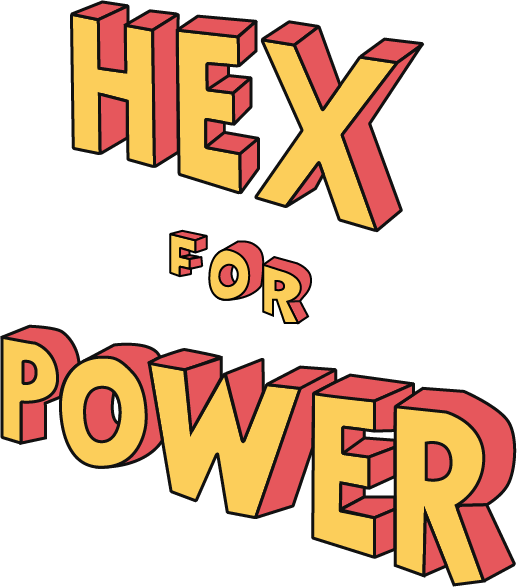
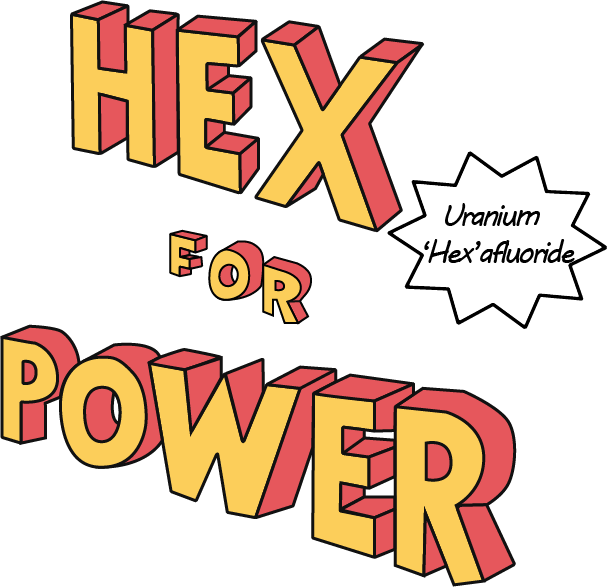
Bunch of changes, added hover areas

diff --git a/docs/styles.css b/docs/styles.css
@@ -1,61 +1,122 @@
-.container {
-  position: relative;
+* {
+  box-sizing: border-box;
 }
-#divSectionTop {
-  width: 1994px;
-  height: 997px;
-  overflow: hidden;
-}
-#divTopBanner {
-  position: absolute;
-  top: 49%;
-  left: 0px;
-  width: 96.5%;
-  height: 10%;
-  background-color: #ffdd88;
-  z-index: 3;
-}
-#divTriGroup {
-  position: absolute;
-  top: 10%;
-  left: 16%;
-  max-width: 25%;
-  height: auto;
-  z-index: 3;
+body,
+html {
+  padding: 0;
+  margin: 0;
+  overflow-x: hidden;
 }
 
-#imgBackground {
-  position: absolute;
-  top: 0px;
-  left: 0px;
-  margin-left: -18px;
-  margin-top: -18px;
-  max-width: 100%;
-  height: auto;
-  z-index: 1;
+/* General */
+.v-center {
+  position: relative;
+  top: 50%;
+  transform: translateY(-50%);
 }
-#imgSpaceAccent {
-  position: absolute;
-  top: 0px;
-  left: 0px;
-  max-width: 96.5%;
-  height: auto;
-  z-index: 2;
+
+/* flex sections (left/right) */
+.left,
+.right {
+  width: 50%;
+  padding: 10px;
+  min-width: 320px;
 }
-#imgFamily {
-  position: absolute;
-  vertical-align: bottom;
-  top: 24%;
-  left: 1%;
-  max-width: 25%;
-  height: auto;
-  z-index: 4;
+
+.left {
+  position: relative;
 }
-#imgTriGroup {
+
+/* Top Section*/
+.section#top {
+  background-image: url("./Media/background-both.png");
+  background-size: cover;
+  background-position: center;
+  background-repeat: no-repeat;
+
+  width: 100vw;
+  min-height: 90vh;
+
+  overflow: hidden;
+  display: flex;
+  flex-wrap: wrap;
+}
+
+#mainTitle {
+  width: 100%;
+  max-width: 400px;
+
+  position: relative;
+
+  margin: 0 auto;
+}
+
+#circles {
+  width: 100%;
+  max-width: 700px;
+
+  margin-left: auto;
+}
+
+.hoverArea {
+  padding: 20px;
+}
+
+.hoverArea .tooltip {
+  opacity: 0;
+
+  width: 100%;
+  height: 100%;
+
+  border-radius: 100%;
+  padding: 10px;
+
+  background: white;
+  pointer-events: none;
+
+  transition: opacity 0.5s ease;
+
+  text-align: center;
+}
+.hoverArea.show .tooltip {
+  opacity: 1;
+}
+
+#banner {
+  width: 100%;
+  height: 100px;
+
+  align-self: flex-end;
+
+  background-color: #efcc8c;
+}
+
+/* HoverAreas */
+.hoverArea {
   position: absolute;
-  top: 10%;
-  left: 16%;
-  max-width: 25%;
-  height: auto;
-  z-index: 3;
+
+  width: 30%;
+  height: 28.3%;
+
+  border-radius: 100%;
+
+  cursor: pointer;
+}
+
+.hoverArea[data-id="1"] {
+  top: 0.3%;
+  left: 31%;
+}
+.hoverArea[data-id="2"] {
+  right: 0.3%;
+  top: 10.5%;
+}
+.hoverArea[data-id="3"] {
+  left: 39.3%;
+  bottom: 35.2%;
+}
+
+/* Bottom Section */
+.section#bottom {
+  /* todo */
 }

diff --git a/docs/index.html b/docs/index.html
@@ -5,21 +5,39 @@
     <meta http-equiv="X-UA-Compatible" content="IE=edge" />
     <meta name="viewport" content="width=device-width, initial-scale=1.0" />
     <title>Fluorine</title>
+    <!-- css reset -->
+    <link
+      rel="stylesheet"
+      href="https://cdn.jsdelivr.net/gh/jgthms/minireset.css@master/minireset.min.css"
+    />
+    <!-- default css -->
     <link rel="stylesheet" href="./styles.css" />
+    <script src="./scripts.js" defer></script>
   </head>
 
   <body>
-    <div class="container">
-      <div id="divSectionTop">
-        <img id="imgBackground" src="Media/Background.png" />
-        <img id="imgSpaceAccent" src="Media/Space-Accent.png" />
-        <div id="divTopBanner"></div>
-        <img id="imgFamily" src="Media/Family.png" />
-        <div id="divTriGroup"></div>
-        <img id="imgTriGroup" src="Media/Tri-Group.png" />
+    <div id="top" class="section">
+      <div class="left">
+        <div id="circles" class="v-center">
+          <img src="./Media/family-circles.png" alt="" />
+          <div class="hoverArea" data-id="1">
+            <div class="tooltip">asdf</div>
+          </div>
+          <div class="hoverArea" data-id="2">
+            <div class="tooltip">asdf</div>
+          </div>
+          <div class="hoverArea" data-id="3">
+            <div class="tooltip">asdf</div>
+          </div>
+        </div>
       </div>
+      <div class="right">
+        <div id="mainTitle" class="v-center">
+          <img src="./Media/Title.png" alt="" id="title" />
+        </div>
+      </div>
+      <div id="banner">banner</div>
     </div>
-
-    <p>Hello Chemistry!</p>
+    <div id="bottom" class="section">asdf</div>
   </body>
 </html>

diff --git a/docs/scripts.js b/docs/scripts.js
@@ -1,0 +1,30 @@
+// misc functions
+function getId(element) {
+  return element.getAttribute("data-id");
+}
+
+// tooltip events
+function showTooltip(e) {
+  let elem = e.target;
+  elem.classList.add("show");
+}
+function hideTooltip(e) {
+  let elem = e.target;
+  elem.classList.remove("show");
+}
+
+// hover events
+function setHoverAreaEvents() {
+  // Circle Tool-Tips Hover
+  let hoverArea = document.querySelectorAll(".hoverArea");
+  hoverArea.forEach((elem) => {
+    elem.addEventListener("mouseover", (e) => {
+      showTooltip(e);
+    });
+    elem.addEventListener("mouseout", (e) => {
+      hideTooltip(e);
+    });
+  });
+}
+
+setHoverAreaEvents();
